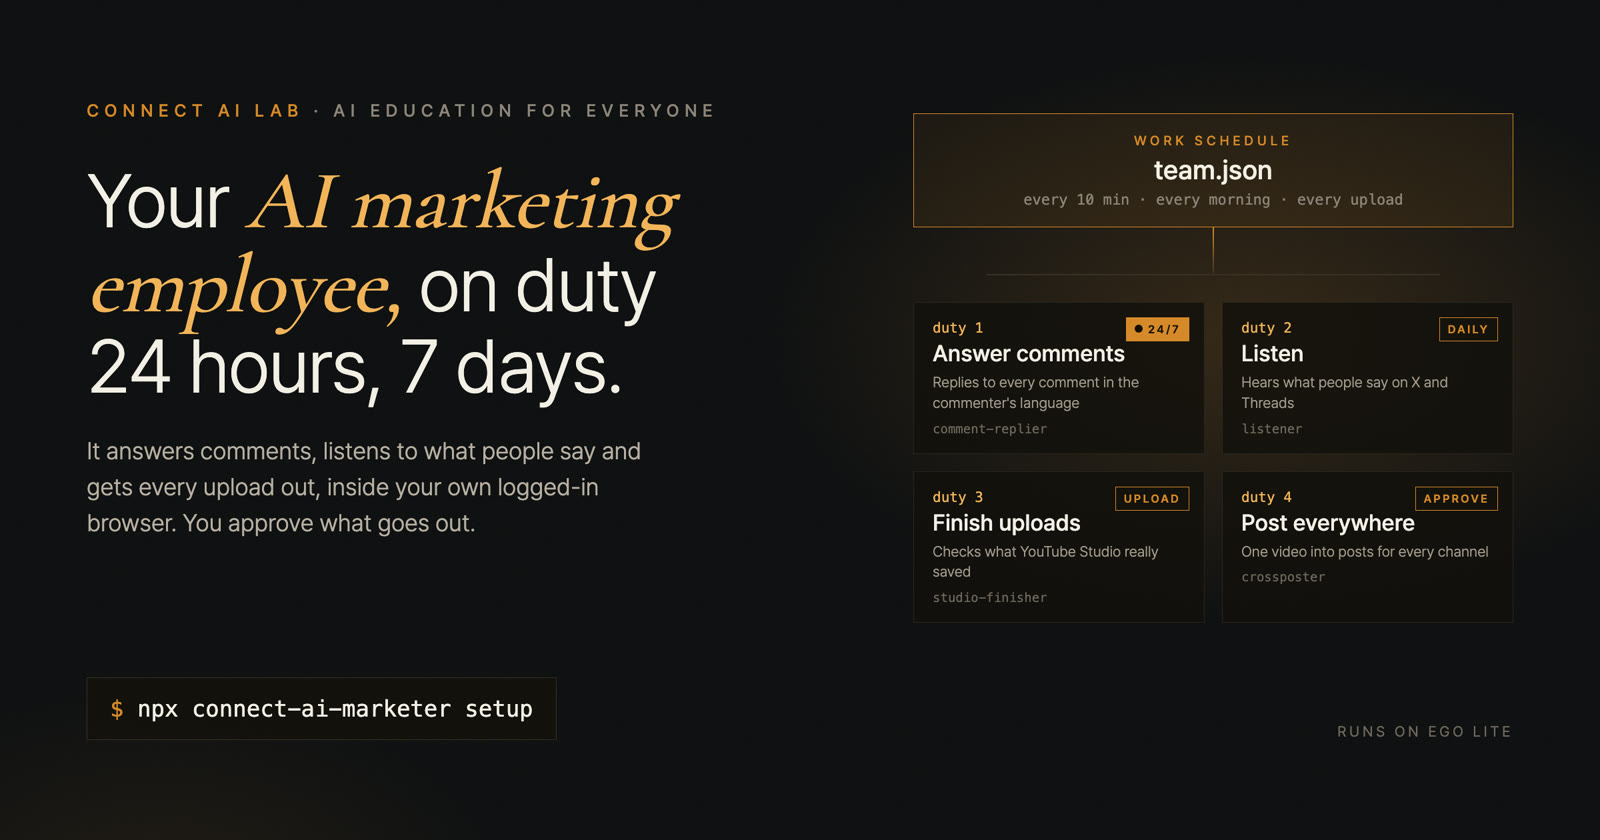
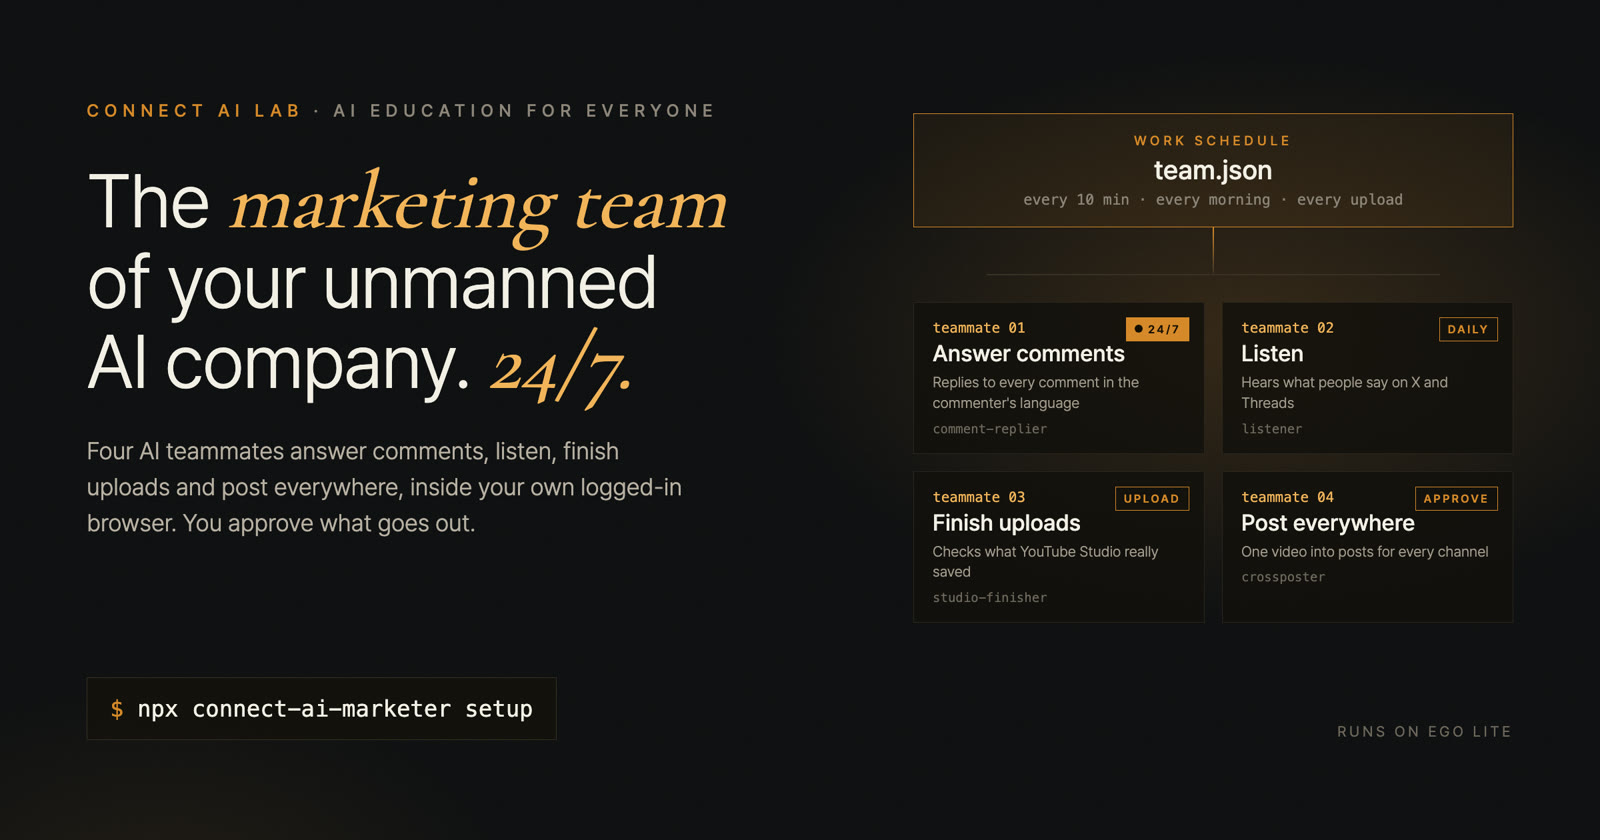
Frame as the marketing team of an unmanned AI autonomous company

diff --git a/docs/index.html b/docs/index.html
@@ -1,7 +1,7 @@
 <!doctype html>
 <html lang="en"><head><meta charset="utf-8"><meta name="viewport" content="width=device-width,initial-scale=1">
 <title>connect-ai-marketer</title>
-<meta name="description" content="Your AI marketing employee, on duty 24/7 in your own logged-in browser. Source available by CONNECT AI LAB.">
+<meta name="description" content="The marketing team of your unmanned AI company, on duty 24/7 in your own logged-in browser. Source available by CONNECT AI LAB.">
 <link rel="preconnect" href="https://fonts.googleapis.com"><link href="https://fonts.googleapis.com/css2?family=Inter:wght@300;400;500;600&family=JetBrains+Mono:wght@400;500&display=swap" rel="stylesheet">
 <style>
 :root{--bg:#0b0a08;--panel:#13110d;--fg:#ece6da;--mute:#9b917f;--gold:#d6892a;--gold2:#f2b45a;--line:#2a251d;color-scheme:dark}
@@ -25,13 +25,13 @@ footer{margin-top:64px;border-top:1px solid var(--line);padding-top:20px;color:v
 a{color:var(--gold2)}
 </style></head><body><div class="wrap">
 <div class="by">Source available by CONNECT AI LAB</div>
-<h1>Your AI marketing employee,<br><b>on duty 24 hours, 7 days.</b></h1>
-<p class="lead">It answers comments every 10 minutes, listens to what people say every morning, and gets every upload out, inside Ego Lite with your own logins. Your agent writes the words; every post waits for your approval.</p>
+<h1>The marketing team of your<br><b>unmanned AI company. 24/7.</b></h1>
+<p class="lead">Four AI teammates: one answers comments every 10 minutes, one, listens to what people say every morning, two get every upload out, inside Ego Lite with your own logins. Your agent writes the words; every post waits for your approval.</p>
 <img src="hero.webp" alt="connect-ai-marketer" style="width:100%;max-width:100%;margin-top:28px;border:1px solid var(--line)">
 <div class="cmd"><span id="c">npx connect-ai-marketer setup</span><button id="b">Copy</button></div>
 <div class="small">Free to use, not for resale (MIT + Commons Clause) · Node 18+ · needs <a href="https://lite.ego.app">Ego Lite</a> (free, separate product) · works with Claude Code, Codex, Antigravity</div>
 
-<h2>Duties</h2>
+<h2>The team</h2>
 <div class="grid">
  <div class="role"><div class="id">comment-replier</div><h3>Comment replier</h3><p>Collects new Instagram comments and posts the replies your agent wrote, in each commenter's language, 15 to 30 seconds apart.</p><div class="gate">Gate: questions needing facts go to you</div></div>
  <div class="role"><div class="id">listener</div><h3>Listener</h3><p>Searches X and Threads for your keywords, keeps only real mentions, ranks them by reach and writes a report.</p><div class="gate">Read only: never likes or replies</div></div>

diff --git a/README.ko.md b/README.ko.md
@@ -1,6 +1,6 @@
 # connect-ai-marketer
 
-**24시간, 일주일 내내 홍보하는 마케팅 AI 직원. 내 로그인된 브라우저에서 일합니다.**
+**무인 AI 자율화 회사의 마케팅팀. 24시간, 일주일 내내 내 로그인된 브라우저에서 일합니다.**
 CONNECT AI LAB 공개 코드 · MIT + Commons Clause (무료로 쓰되 판매 금지) · [에고라이트(Ego Lite)](https://lite.ego.app) 위에서 동작
 
 ```bash
@@ -9,17 +9,17 @@ npx connect-ai-marketer setup
 
 ![connect-ai-marketer](docs/hero.webp)
 
-마케팅 직원은 업무 4가지를 합니다. 업무는 하나씩 만들고 근무표(`team.json`)로 엮습니다. 댓글은 10분마다, 리스닝은 매일 아침, 업로드 마무리와 게시는 영상이 올라갈 때마다. `npx connect-ai-marketer watch` 하면 24시간 근무를 시작합니다. 글은 여러분의 에이전트(Claude Code, Codex, Antigravity)가 쓰고, 킷은 에고라이트 안에서 찾고, 확인하고, 결재함에 넣고, 입력합니다. 내 탭은 건드리지 않습니다.
+AI 팀원 4명이 일합니다. 팀원은 하나씩 만들고 근무표(`team.json`)로 엮습니다. 댓글은 10분마다, 리스닝은 매일 아침, 업로드 마무리와 게시는 영상이 올라갈 때마다. `npx connect-ai-marketer watch` 하면 팀이 24시간 근무를 시작합니다. 글은 여러분의 에이전트(Claude Code, Codex, Antigravity)가 쓰고, 킷은 에고라이트 안에서 찾고, 확인하고, 결재함에 넣고, 입력합니다. 내 탭은 건드리지 않습니다.
 
-| 업무 | 하는 일 | 상태 |
+| 팀원 | 하는 일 | 상태 |
 |---|---|---|
 | 댓글 담당 comment-replier | 인스타 새 댓글을 모으고, 댓글 단 사람의 언어로 답글 | v0.1 |
 | 리스닝 담당 listener | X와 스레드에서 키워드 검색, 반응 순 정리, 리포트 | v0.1 |
 | 업로드 마무리 담당 studio-finisher | Studio를 새로고침해 저장된 제목, 설명, 재생목록, 태그를 시트와 비교 | v0.1 (읽기만) |
 | 게시 담당 crossposter | 채널별 초안, X 가중치 글자 수, 결재함, 승인하면 입력 | v0.1 |
-| 벤치마크, 숫자, 상품 태그, 신청서 | 다음 업무 | 다음 |
+| 벤치마크, 숫자, 상품 태그, 신청서 | 다음 팀원 | 다음 |
 
-## 직원이 일하는 방식
+## 팀이 일하는 방식
 - **역할**: `roles/<id>/` 의 `role.json` + `run.mjs`. 역할끼리는 작업 폴더의 JSON 파일로 주고받습니다.
 - **순서표** `team.json`: 작업 폴더에 복사해서 순서를 바꾸면 나만의 팀이 됩니다.
 - **결재함**: 모든 게시와 답글은 `approve <id>` 전까지 기다립니다. 믿는 역할만 `config.autoSend` 에 넣으세요.

diff --git a/README.md b/README.md
@@ -1,6 +1,6 @@
 # connect-ai-marketer
 
-**Your AI marketing employee: promotes you 24 hours a day, 7 days a week, in your own logged-in browser.**
+**The marketing team of your unmanned AI autonomous company: on duty 24 hours a day, 7 days a week, in your own logged-in browser.**
 Source available by CONNECT AI LAB · MIT + Commons Clause (free to use, not for resale) · runs on [Ego Lite](https://lite.ego.app)
 
 ```bash
@@ -9,17 +9,17 @@ npx connect-ai-marketer setup
 
 [![connect-ai-marketer](docs/hero.webp)](docs/index.html)
 
-The employee has four duties, built one by one and wired by a work schedule (`team.json`): comments every 10 minutes, listening every morning, finishing and posting every upload. `npx connect-ai-marketer watch` puts it on duty around the clock. Your agent (Claude Code, Codex, Antigravity) writes the words; the kit scans, checks, queues and types in Ego Lite, so your own tabs stay yours.
+Four AI teammates, built one by one and wired by a work schedule (`team.json`): comments every 10 minutes, listening every morning, finishing and posting every upload. `npx connect-ai-marketer watch` puts the team on duty around the clock. Your agent (Claude Code, Codex, Antigravity) writes the words; the kit scans, checks, queues and types in Ego Lite, so your own tabs stay yours.
 
-| Duty | What it does | Status |
+| Teammate | What it does | Status |
 |---|---|---|
 | comment-replier | collect new Instagram comments, post replies in each commenter's language | v0.1 |
 | listener | search X and Threads for your keywords, rank by reach, write a report | v0.1 |
 | studio-finisher | reload a YouTube Studio video and diff saved title, description, playlists, tags with your sheet | v0.1 (reads only) |
 | crossposter | per-channel drafts, X weighted length check, approval inbox, types the post | v0.1 |
-| benchmarker, analyst, tagger, form-filler | next duties | next |
+| benchmarker, analyst, tagger, form-filler | next teammates | next |
 
-## How the employee works
+## How the team works
 
 ```
 team new-video ─▶ studio-finisher ─▶ crossposter (drafts → inbox) ─▶ comment-replier

diff --git a/skill/SKILL.md b/skill/SKILL.md
@@ -3,13 +3,13 @@ name: connect-ai-marketer
 description: Run a marketing team of AI employees on Ego Lite (ego-browser). Use when the user wants to reply to Instagram comments, listen to what people say on X and Threads, check a YouTube upload's saved title/description/playlists/tags, or turn a new video into posts for X, Threads and LinkedIn with an approval inbox. Also for "홍보팀", "댓글 답글", "리스닝", "크로스포스팅", "업로드 마무리".
 ---
 
-# connect-ai-marketer: your AI marketing employee (24/7)
+# connect-ai-marketer: the marketing team of an unmanned AI company (24/7)
 
 You are the brain; the kit is the hands. Each role does one job in Ego Lite with the user's own logins.
 You write the words (replies, posts). The kit scans, checks, queues and types.
 
-## Duties
-| Duty | Job | Your part |
+## Team
+| Teammate | Job | Your part |
 |---|---|---|
 | comment-replier | scan Instagram notifications, post replies | write one reply per comment |
 | listener | search X + Threads for keywords, rank, report | read the report, tell the user what matters |
